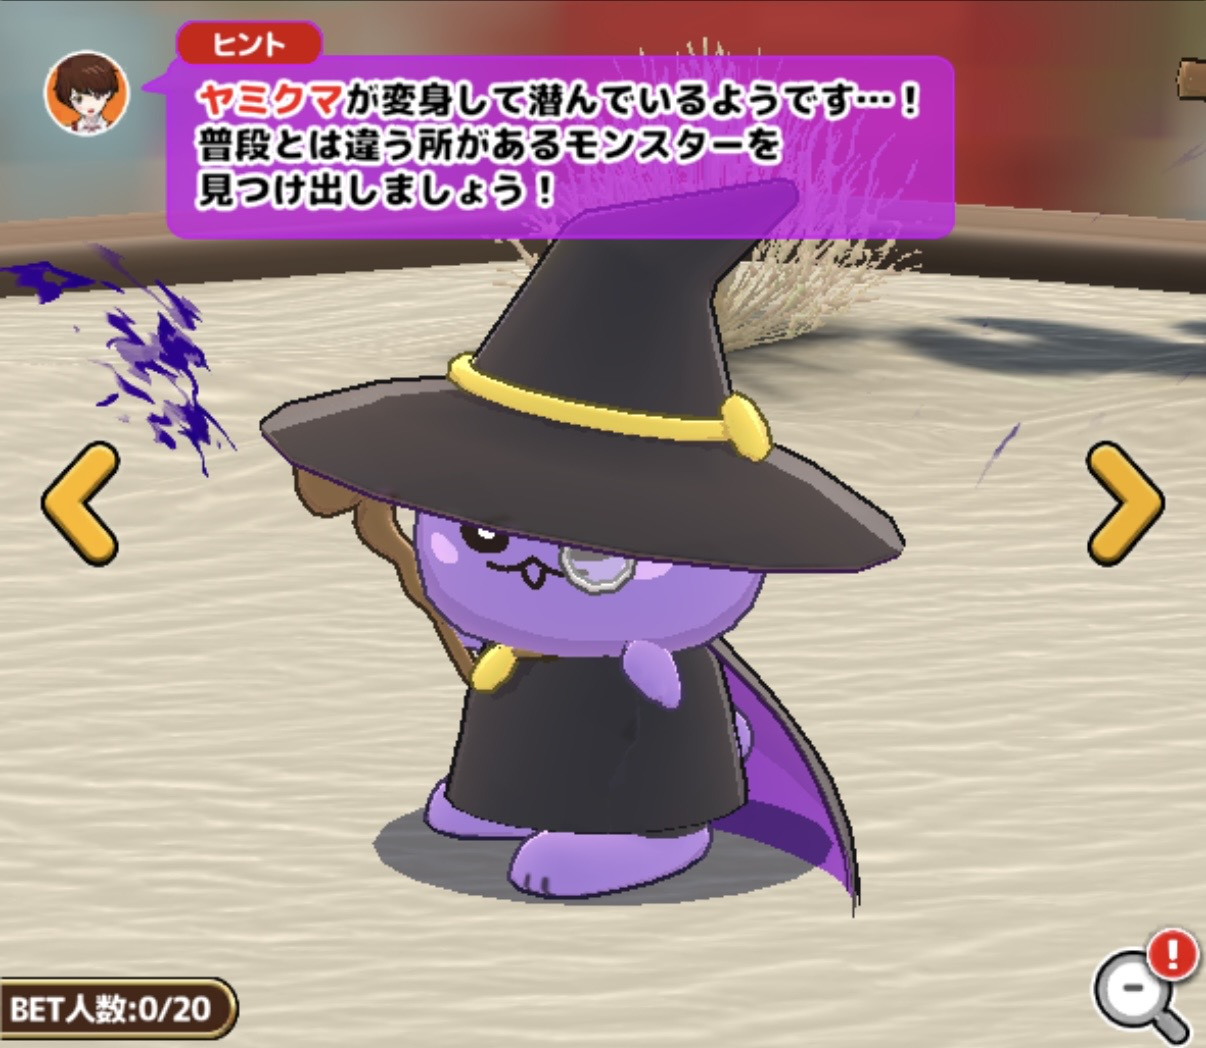
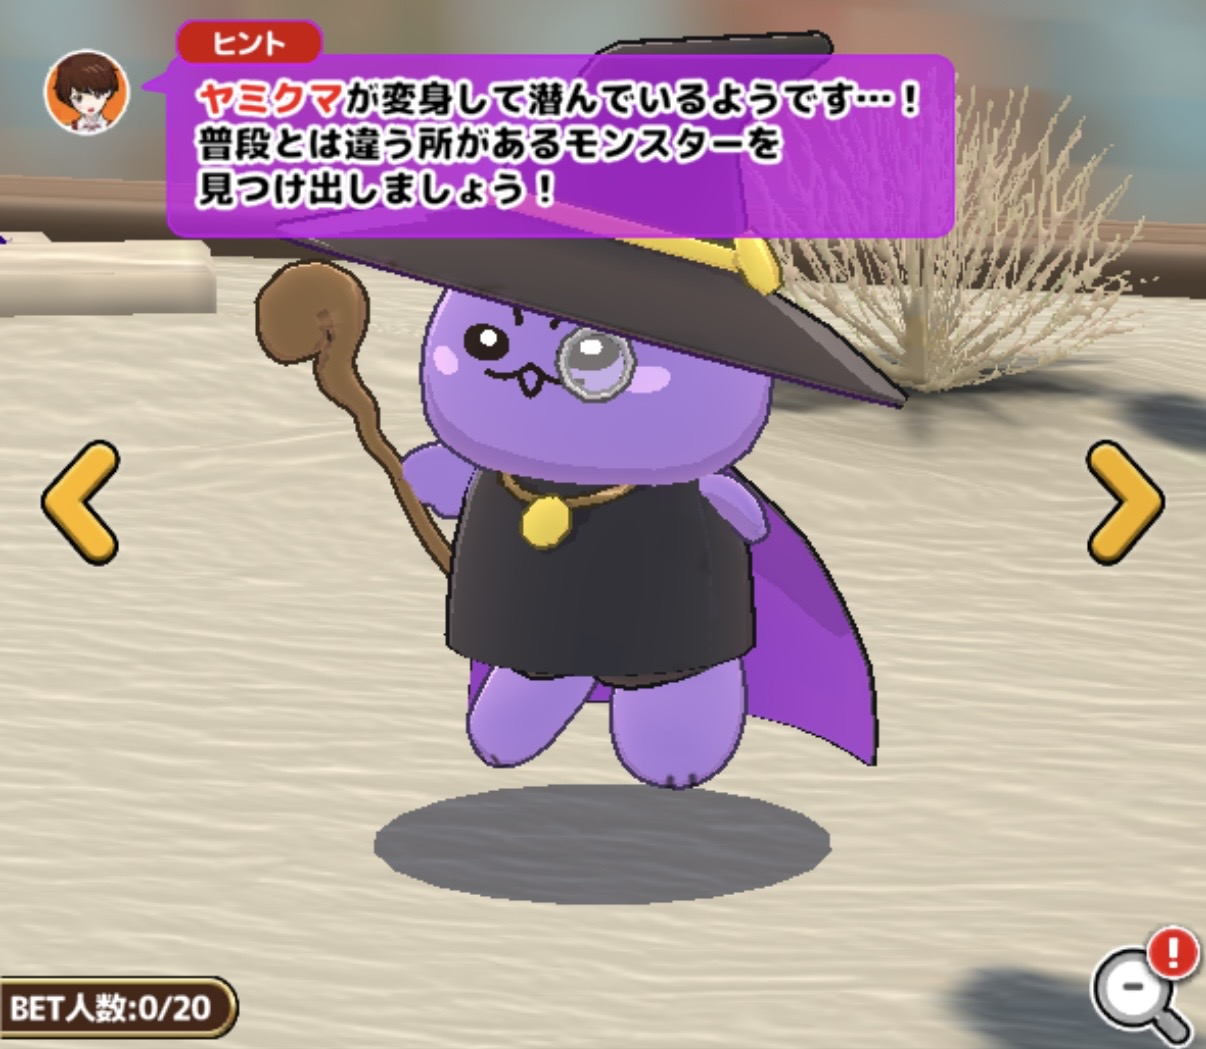
情報更新

diff --git a/data-anomaly.js b/data-anomaly.js
@@ -203,22 +203,22 @@ const ANOMALY_DATA = {
     {
       note: "杖",
       point: "杖の形が通常時と異なる。",
-      compareIndex: 1
-    },
-    {
-      note: "杖",
-      point: "杖の形が通常時と異なる。",
-      compareIndex: 2
-    },
-    {
-      note: "帽子・ズボン",
-      point: "クラウンの先が通常時よりとがっている。<br>ズボンが赤くなっている。",
       compareIndex: 2
     },
     {
       note: "杖",
       point: "杖の形が通常時と異なる。",
       compareIndex: 3
+    },
+    {
+      note: "帽子・ズボン",
+      point: "クラウンの先が通常時よりとがっている。<br>ズボンが赤くなっている。",
+      compareIndex: 3
+    },
+    {
+      note: "杖",
+      point: "杖の形が通常時と異なる。",
+      compareIndex: 4
     },
   ],
   m12: [

diff --git a/index.html b/index.html
@@ -37,7 +37,7 @@
   <link rel="preconnect" href="https://fonts.googleapis.com">
   <link rel="preconnect" href="https://fonts.gstatic.com" crossorigin>
   <link href="https://fonts.googleapis.com/css2?family=Dela+Gothic+One&family=Zen+Antique&family=Noto+Sans+JP:wght@400;500;700;900&display=swap" rel="stylesheet">
-  <link rel="stylesheet" href="style.css?v=0.4.8">
+  <link rel="stylesheet" href="style.css?v=0.4.9">
 </head>
 <body>
 
@@ -215,8 +215,8 @@
     </svg>
   </div>
 
-  <script src="data-normal.js?v=0.4.8" defer></script>
-  <script src="data-anomaly.js?v=0.4.8" defer></script>
-  <script src="script.js?v=0.4.8" defer></script>
+  <script src="data-normal.js?v=0.4.9" defer></script>
+  <script src="data-anomaly.js?v=0.4.9" defer></script>
+  <script src="script.js?v=0.4.9" defer></script>
 </body>
 </html>

diff --git a/data-normal.js b/data-normal.js
@@ -56,6 +56,7 @@ const NORMAL_EXTRA = {
   m11: [
     { label: "参考B" },
     { label: "参考C" },
+    { label: "参考D" },
   ],
   m13: [
     { label: "参考B" },
